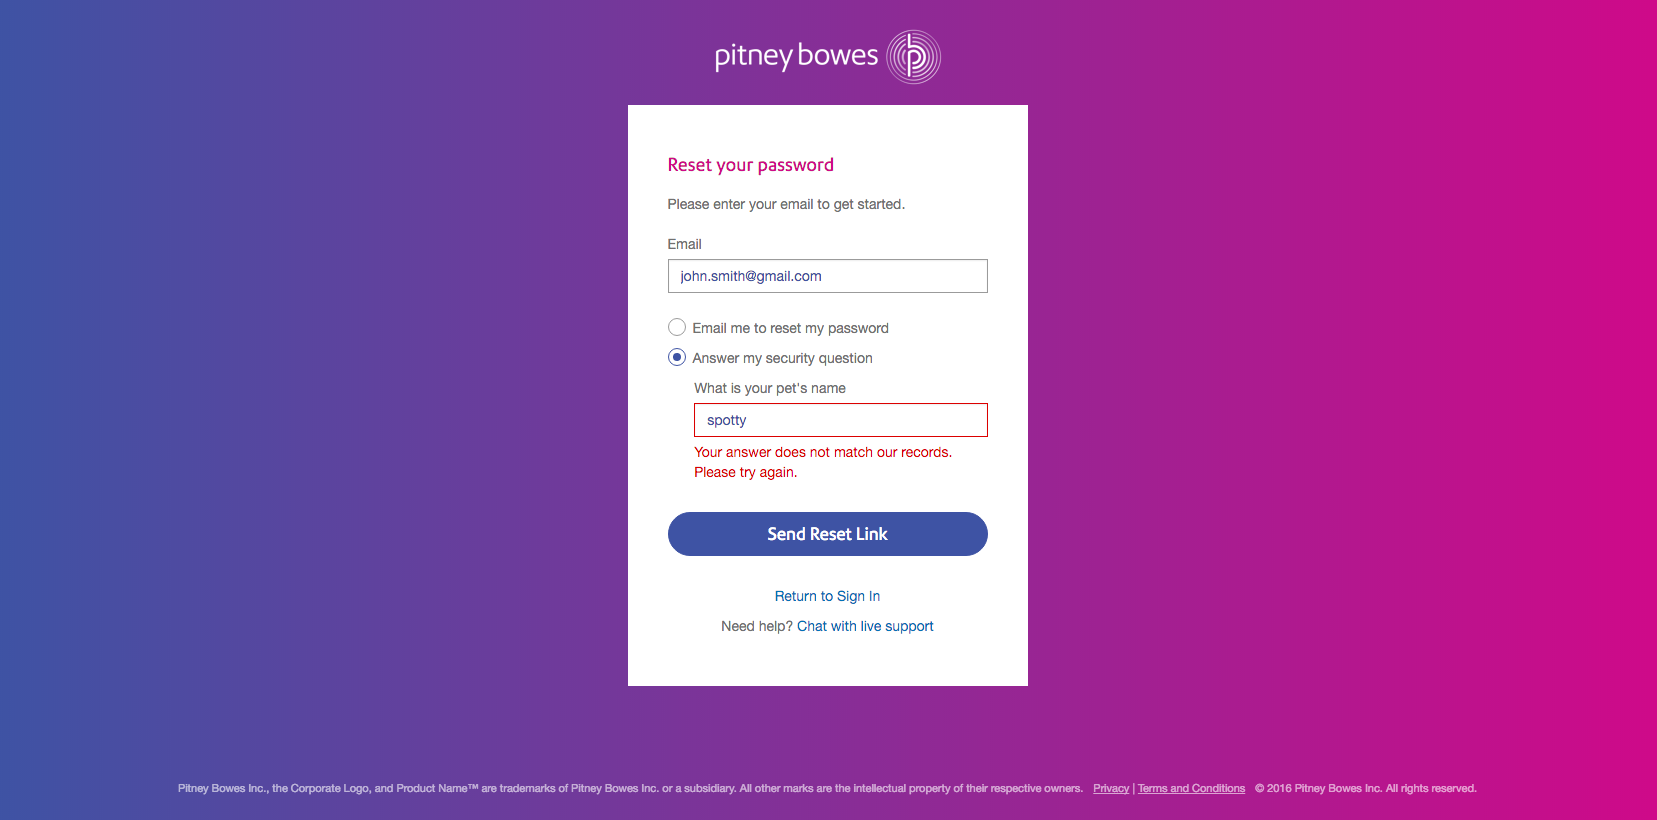
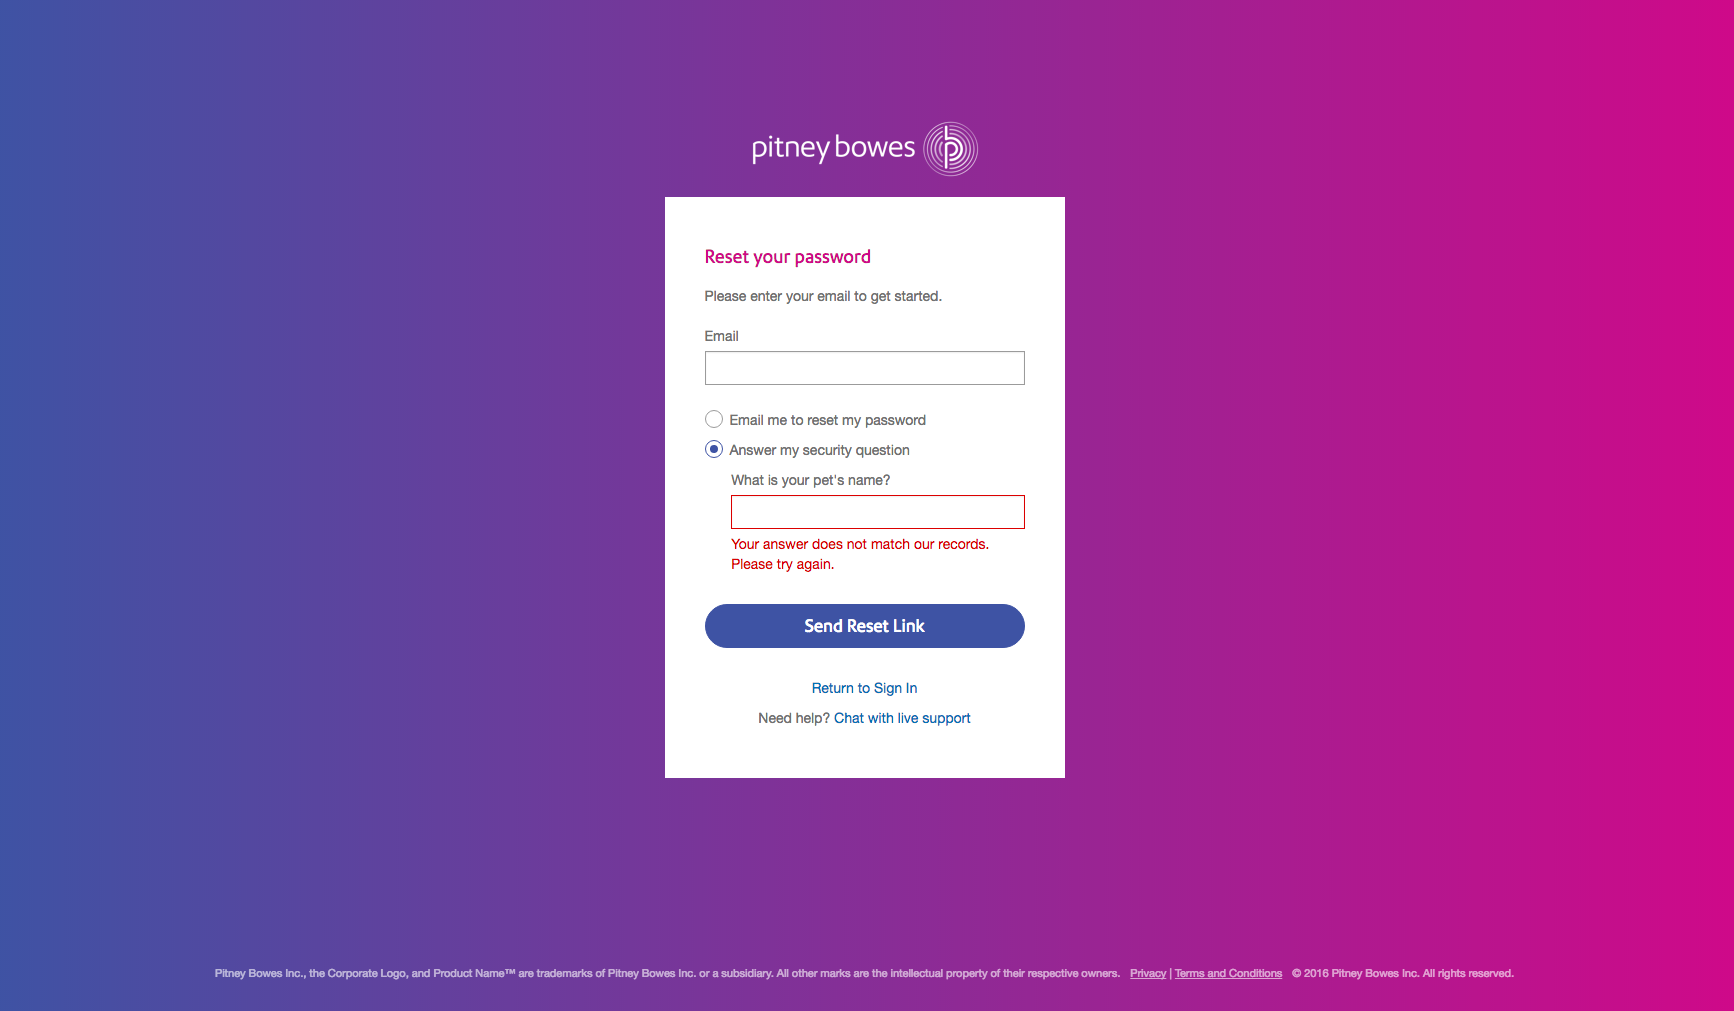
Changes per QA comments

Changed region(s): [[0.3693, 0.122, 0.6463, 0.8537], [0.0923, 0.9451, 0.8926, 0.9756], [0.4309, 0.0305, 0.5848, 0.0915]]

diff --git a/app/modules/patterns/templates/forgot-password-error.html b/app/modules/patterns/templates/forgot-password-error.html
@@ -13,7 +13,7 @@
         <form autocomplete="off" name="myForm" class="spacer-top-sm" novalidate>
           <div class="form-group" ng-class="{'has-error': myForm.name.$error.required  && myForm.name.$dirty}">
             <label for="name">Email</label>
-            <input class="form-control" name="name" required type="text" value="john.smith@gmail.com">
+            <input class="form-control" name="name" required type="text">
             <span class="help-block" ng-show="myForm.name.$error.required && myForm.name.$dirty">Enter a valid email address.</span>
           </div>
 
@@ -31,8 +31,8 @@
             </label>
 
             <div class="form-group col-xs-offset-1 has-error" ng-class="{'has-error': myForm.name.$error.required  && myForm.name.$dirty}">
-              <label for="name">What is your pet's name</label>
-              <input class="form-control" name="name" required type="text" value="spotty">
+              <label for="name">What is your pet's name?</label>
+              <input class="form-control" name="name" required type="text">
               <span class="help-block">Your answer does not match our records. Please try again.</span>
             </div>
           </div>

diff --git a/app/modules/patterns/templates/sign-in-sign-up.html b/app/modules/patterns/templates/sign-in-sign-up.html
@@ -134,7 +134,7 @@
   <!--Forgot Password Page  - With return to sign in-->
   <div class="row">
     <div class="col-md-12">
-      <h2 class="doc-sectionhead">Forgot Password: Send Reset Email, Return to Sign In</h2>
+      <h2 class="doc-sectionhead">Forgot Password: Send Reset Email, Go to Verification</h2>
     </div>
   </div>
 
@@ -147,7 +147,7 @@
   <!--Forgot Password: Security Question, Reset by Password, Return to Sign In-->
   <div class="row">
     <div class="col-md-12">
-      <h2 class="doc-sectionhead">Forgot Password: Security Question, Reset by Password, Return to Sign In</h2>
+      <h2 class="doc-sectionhead">Forgot Password: Security Question, Reset by Password, Go to Verification</h2>
     </div>
   </div>
 
@@ -160,7 +160,7 @@
   <!--Forgot Password: Security Question, Reset by Question, Return to Sign In-->
    <div class="row">
     <div class="col-md-12">
-      <h2 class="doc-sectionhead">Forgot Password: Security Question, Reset by Question, Return to Sign In</h2>
+      <h2 class="doc-sectionhead">Forgot Password: Security Question, Reset by Question, Go to Confirm New Password</h2>
     </div>
   </div>
 

diff --git a/app/modules/patterns/templates/forgot-password-question.html b/app/modules/patterns/templates/forgot-password-question.html
@@ -31,13 +31,13 @@
             </label>
 
             <div class="form-group col-xs-offset-1" ng-class="{'has-error': myForm.name.$error.required  && myForm.name.$dirty}">
-              <label for="name">What is your pet's name</label>
-              <input class="form-control" name="name" required type="text" value="spotty">
+              <label for="name">What is your pet's name?</label>
+              <input class="form-control" name="name" required type="text">
               <span class="help-block" ng-show="myForm.name.$error.required && myForm.name.$dirty">Your answer does not match our records. Please try again.</span>
             </div>
           </div>
 
-          <button class="btn btn-primary btn-block btn-lg spacer-top-xs btn-pill" ng-click="login()" type="submit">Send Reset Link</button>
+          <button class="btn btn-primary btn-block btn-lg spacer-top-xs btn-pill" ng-click="login()" type="submit">Continue</button>
         </form>
 
          <p class="text-center spacer-top-md"><a href="">Return to Sign In</a></p>

diff --git a/app/modules/patterns/templates/forgot-password-email.html b/app/modules/patterns/templates/forgot-password-email.html
@@ -13,13 +13,13 @@
         <form autocomplete="off" name="myForm" class="spacer-top-sm" novalidate>
           <div class="form-group" ng-class="{'has-error': myForm.name.$error.required  && myForm.name.$dirty}">
             <label for="name">Email</label>
-            <input class="form-control" name="name" required type="text">
+            <input class="form-control" name="name" required type="text" value="john.smith@gmail.com">
             <span class="help-block" ng-show="myForm.name.$error.required && myForm.name.$dirty">Enter a valid email address.</span>
           </div>
 
             <div class="form-group">
              <label class="control radio">
-                <input name="radio" type="radio" id="email-me">
+                <input name="radio" type="radio" id="email-me" checked>
                 <span class="control-indicator"></span>
                 Email me to reset my password
               </label>
